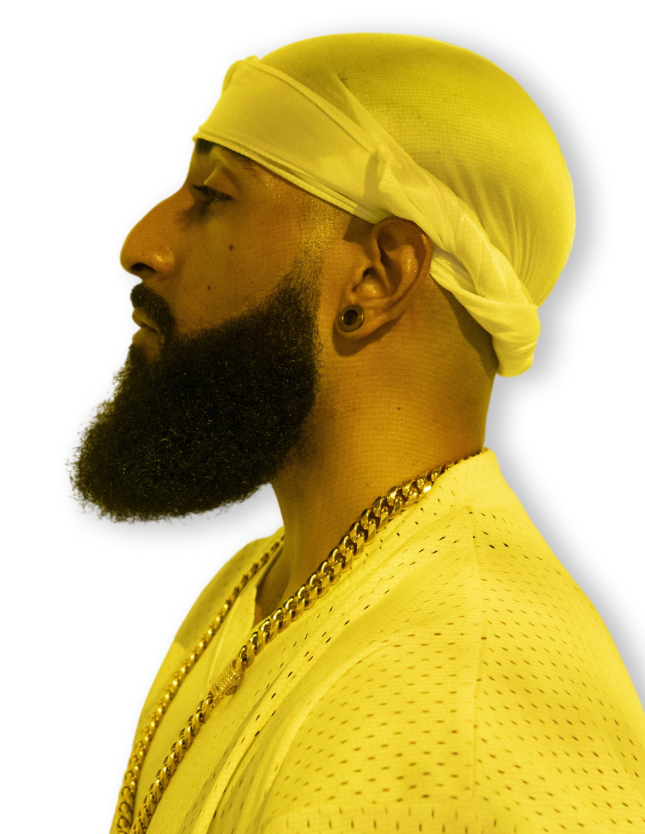
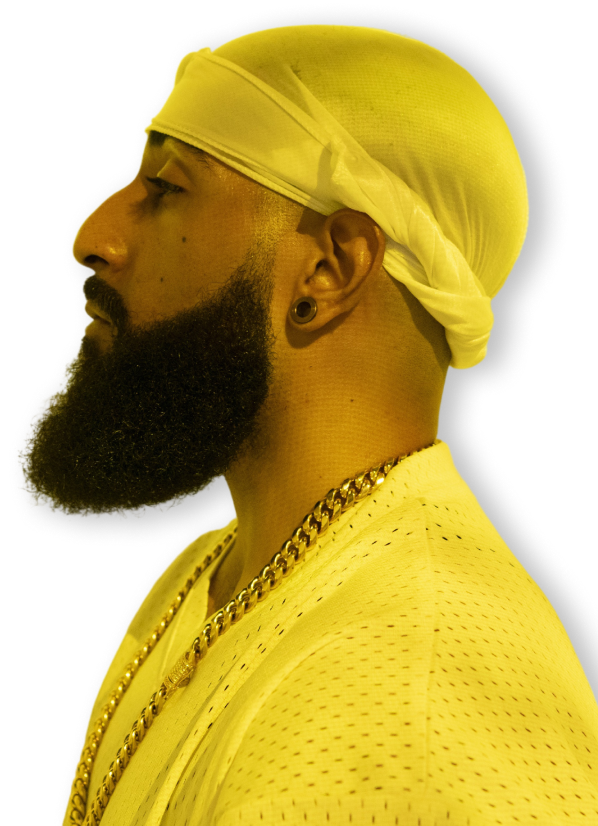
bruh

diff --git a/index.html b/index.html
@@ -6,6 +6,8 @@
         <title>SOLO JONES - HOME</title>
         <link href="https://fonts.googleapis.com/css2?family=Poppins:wght@200;300;400&display=swap" rel="stylesheet">
         <link rel="stylesheet" href="assets/css/main.css">
+
+        <script src="http://code.jquery.com/jquery-3.5.1.js" integrity="sha256-QWo7LDvxbWT2tbbQ97B53yJnYU3WhH/C8ycbRAkjPDc=" crossorigin="anonymous"></script>
     </head>
     <body>
         <div class="home">
@@ -15,6 +17,7 @@
                 <p>OUT NOW</p>
                 <button class="stream">STREAM</button>
             </div>
+            <div class="spacer"></div>
             <div class="nav">
                 <ul>
                     <li><a href="#" class="on-link">HOME</a></li>
@@ -25,6 +28,8 @@
             </div>
             <div class="left">            
                 <div class="thirtypiece-scroller">
+                    <p class="scroller">Thirty <span>piece</span></p>
+                    <p class="scroller"><span>Thirty</span> piece</p>
                     <p class="scroller">Thirty <span>piece</span></p>
                     <p class="scroller"><span>Thirty</span> piece</p>
                     <p class="scroller">Thirty <span>piece</span></p>
@@ -47,10 +52,11 @@
                     <p class="scroller"><span>Thirty</span> piece</p>
                     <p class="scroller">Thirty <span>piece</span></p>
                     <p class="scroller"><span>Thirty</span> piece</p>
+                    <p class="scroller">Thirty <span>piece</span></p>
                 </div>
             </div>
             <div class="right">
-                <img src="assets/img/SOLOJONES.png" alt="SOLO JONES HOME PAGE IMAGE" class="solojones" />
+                <img src="assets/img/SOLOJONES.png" alt="SOLO JONES HOME PAGE IMAGE" id="homepicture" class="solojones" />
             </div>
         </div>
         <div class="not-home">
@@ -82,4 +88,5 @@
             </footer>
         </div>
     </body>
+    <script src="assets/js/main.js"></script>
 </html>

diff --git a/assets/css/main.css b/assets/css/main.css
@@ -13,7 +13,8 @@ body {
 }
 
 .home {
-    height: 100vh;
+    position: relative;
+    min-height: 100vh;
 }
 .not-home {
     z-index: 2;
@@ -77,7 +78,11 @@ span {
 .solojones {
     margin-bottom: -7px;
     height: auto;
-    width: 400px;
+    width: 500px;
+    transition: ease all 1s;
+}
+.expand {
+    width: 600px;
 }
 .stream {
     background-color: #332607;
@@ -98,8 +103,13 @@ span {
     outline: none;
 }
 .stream:focus { outline: none }
+.spacer {
+    display: inline-block;
+    height: 200px;
+    width: 200px;
+}
 .nav {
-    min-height: 25px;
+    max-height: 25px;
     position: absolute;
     left: 50%;
     bottom: 6px;
@@ -161,10 +171,10 @@ p.scroller:nth-child(odd) {
     height: 480px;
     animation: marquee 15s linear infinite;
 }
-.thirtypiece-scroller .two {
+.two {
+    margin-top: 240px;
     display: inline-block;
     animation: marquee2 15s linear infinite;
-    animation-delay: 5s;
 }
 
 .not-home {
@@ -196,11 +206,23 @@ footer {
       transform: translateY(0%);
     }
     to {
-      transform: translateY(-200%);
+      transform: translateY(-100%);
     }
 }
 
-@media screen and (max-width: 960px) {
+@media screen and (max-width: 1400px), (max-height: 880px) {
+    .solojones {
+        width: 500px;
+    }
+}
+
+@media screen and (max-width: 1200px) {
+    .solojones {
+        width: 400px;
+    }
+}
+
+@media screen and (max-width: 975px) {
     .right {
         display: none;
     }

diff --git a/assets/js/main.js b/assets/js/main.js
@@ -1,0 +1,5 @@
+$(window).on('load', () => {
+    setTimeout(() => {
+        $('#homepicture').addClass('expand');
+    }, 100);
+})
